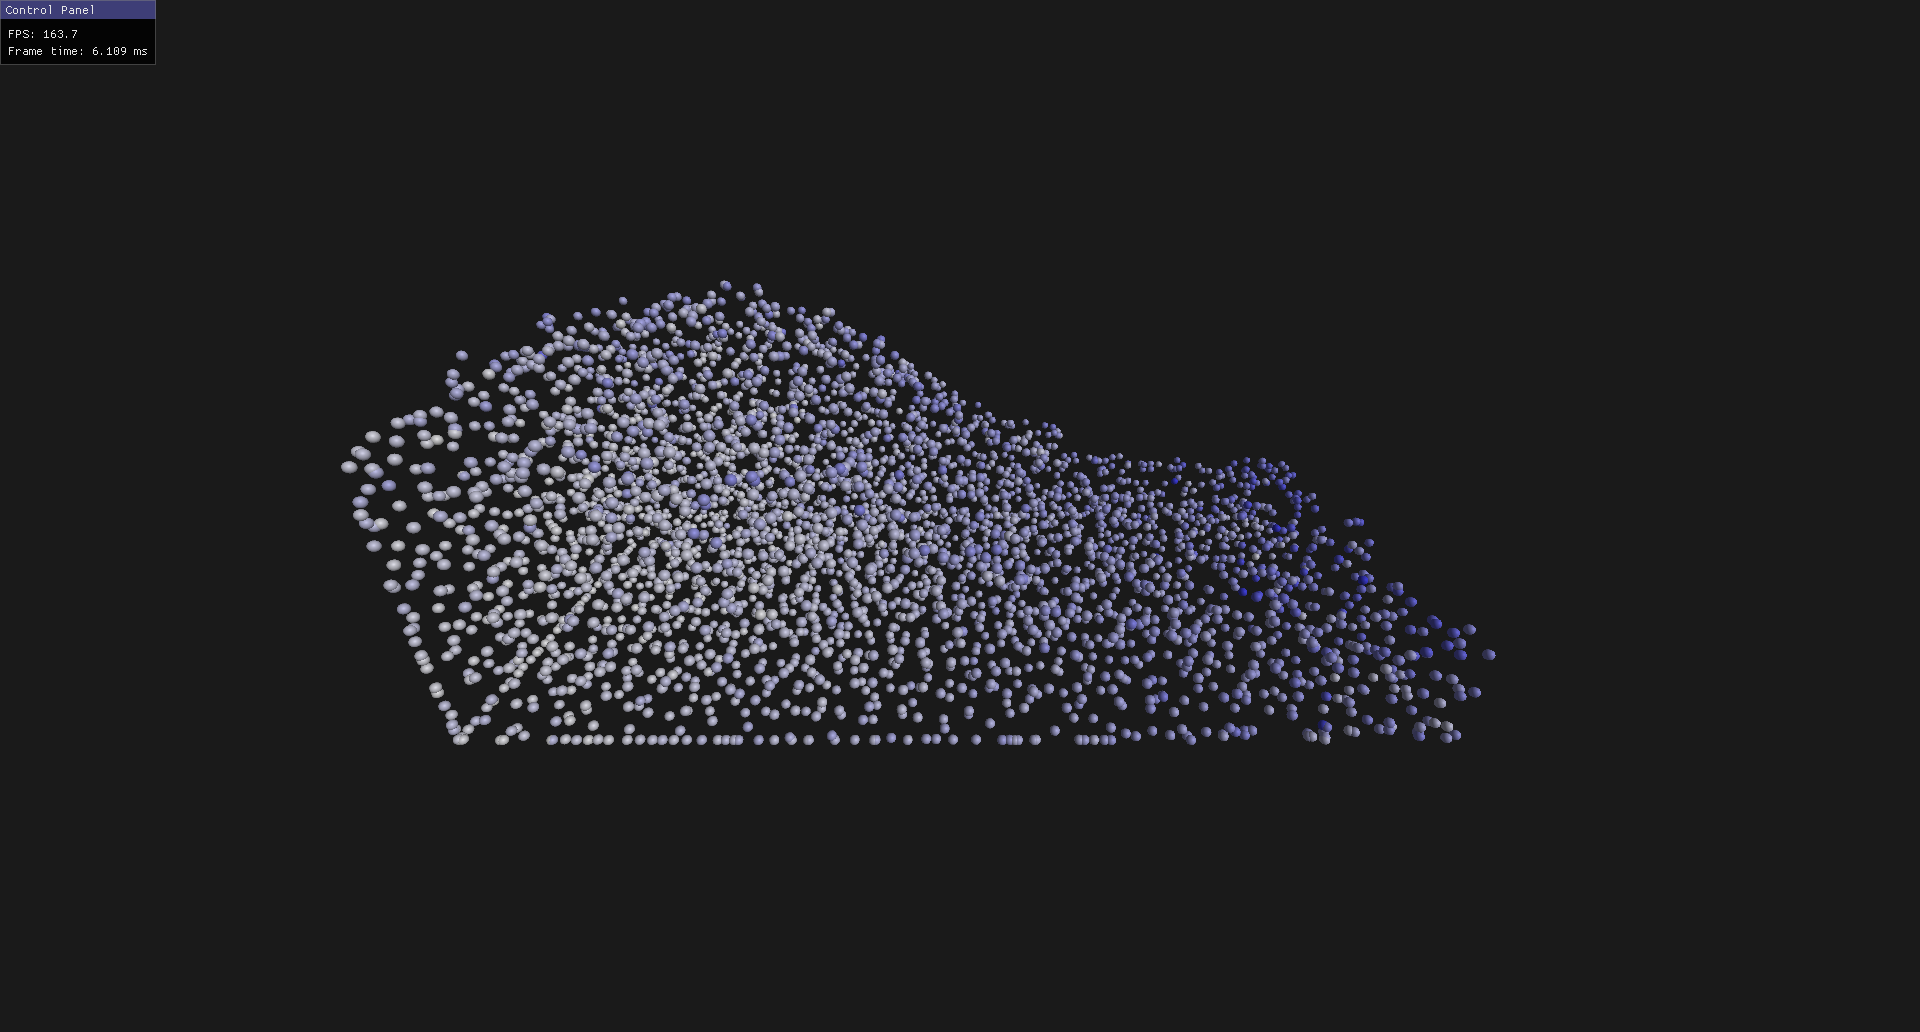
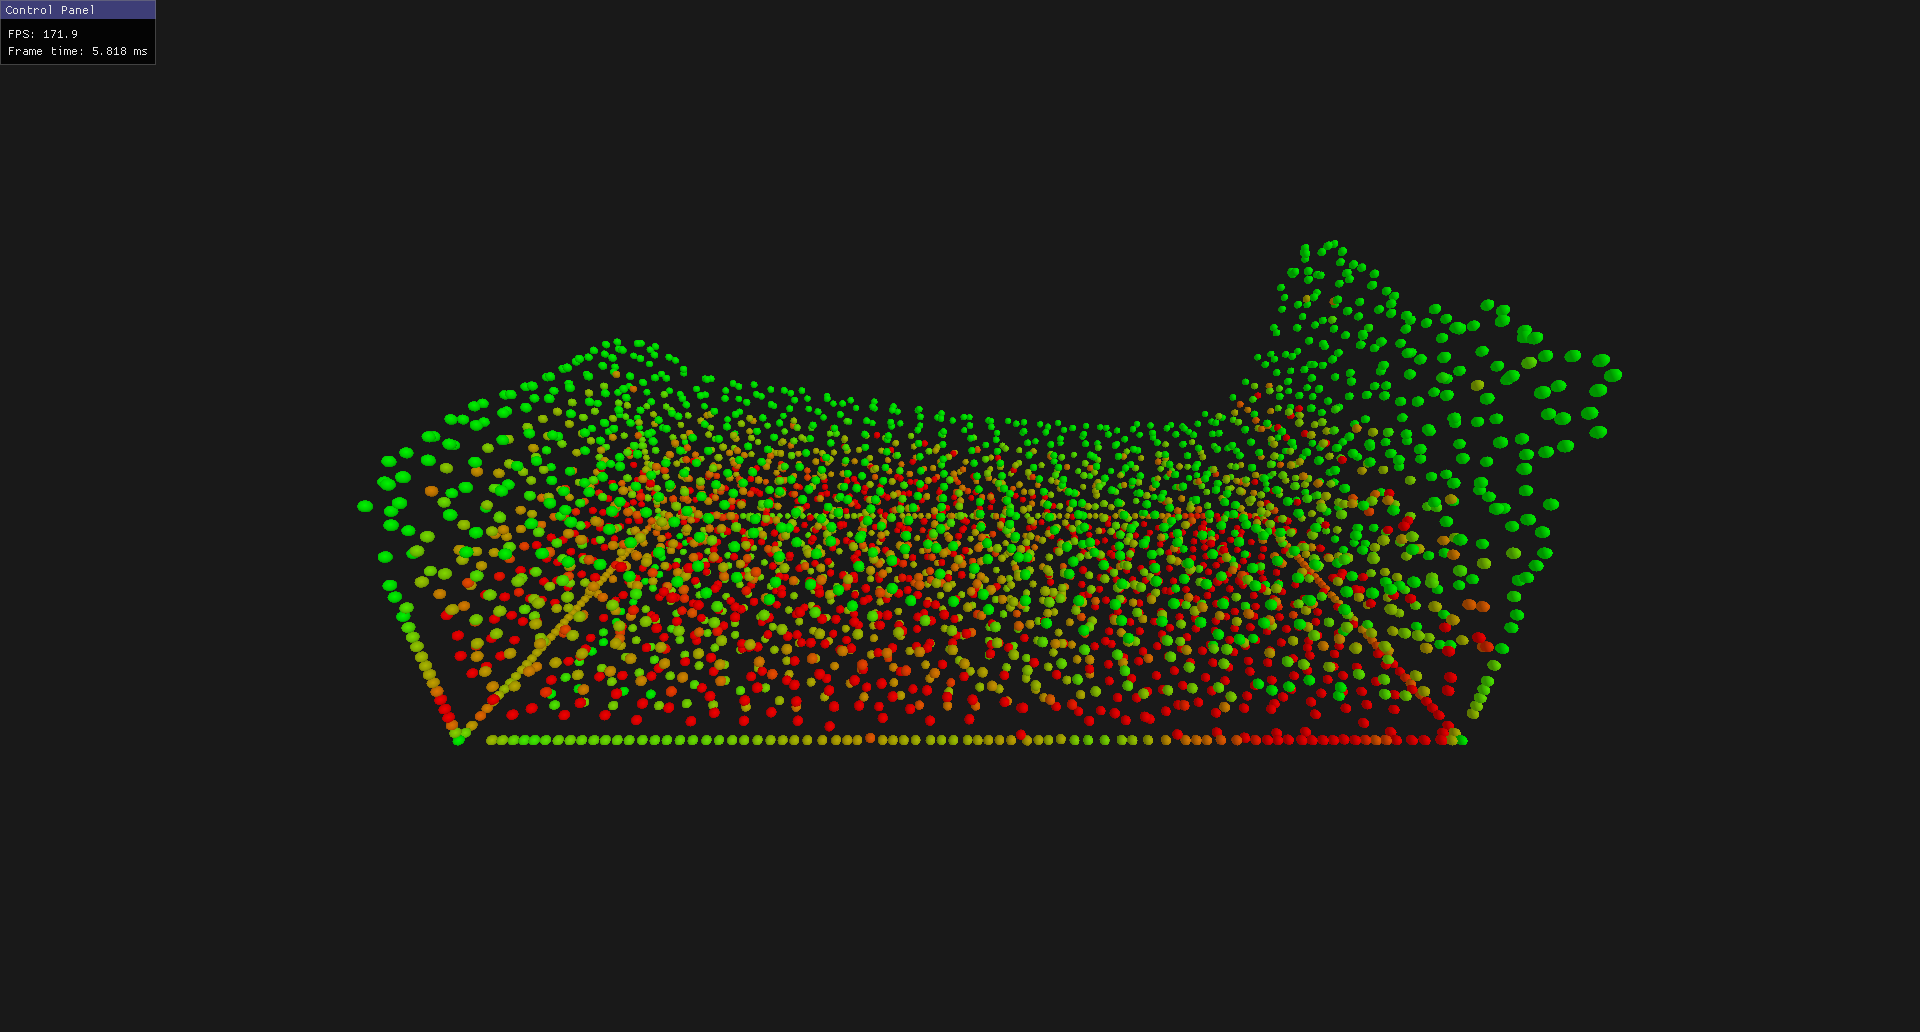
Updated demo image and readme

Changed region(s): [[0.1562, 0.2171, 0.8438, 0.7442]]

diff --git a/README.md b/README.md
@@ -5,11 +5,43 @@ Basic implementation of 3D SPH in C++ and OpenGL.
   <img src="assets/images/demo.png" width="600">
 </p>
 
+# How to nuild
+```bash
+mkdir build
+cd build
+cmake ..
+make
+```
+# How to run
+```bash
+./sph
+```
+
+# Requirments
+- CMake
+- OpenGL
+- GLFW
+- GLAD
+- GLM
+- CUDA Toolkit (12.6)
+
+# Note
+- Export CUDA path in your bashrc or bash_profile
+  ```bash
+  export PATH=/usr/local/cuda-12.6/bin${PATH:+:${PATH}}
+  export LD_LIBRARY_PATH=/usr/local/cuda-12.6/lib64${LD_LIBRARY_PATH:+:${LD_LIBRARY_PATH}}
+  ```
+- Incase you have multiple GPU's use 
+  ```bash
+  export __NV_PRIME_RENDER_OFFLOAD=1
+  export __GLX_VENDOR_LIBRARY_NAME=nvidia
+  ```
+
+
 ## Features
 - [x] OpenGL rendering
 - [X] Boundary handling
 - [x] Viscosity
-- [x] Spatial hashed grid
-- [ ] CUDA Implementation
+- [x] CUDA Implementation
+- [ ] Spatial hashed grid
 - [ ] Surface tension
-- [ ] Interactive mode
